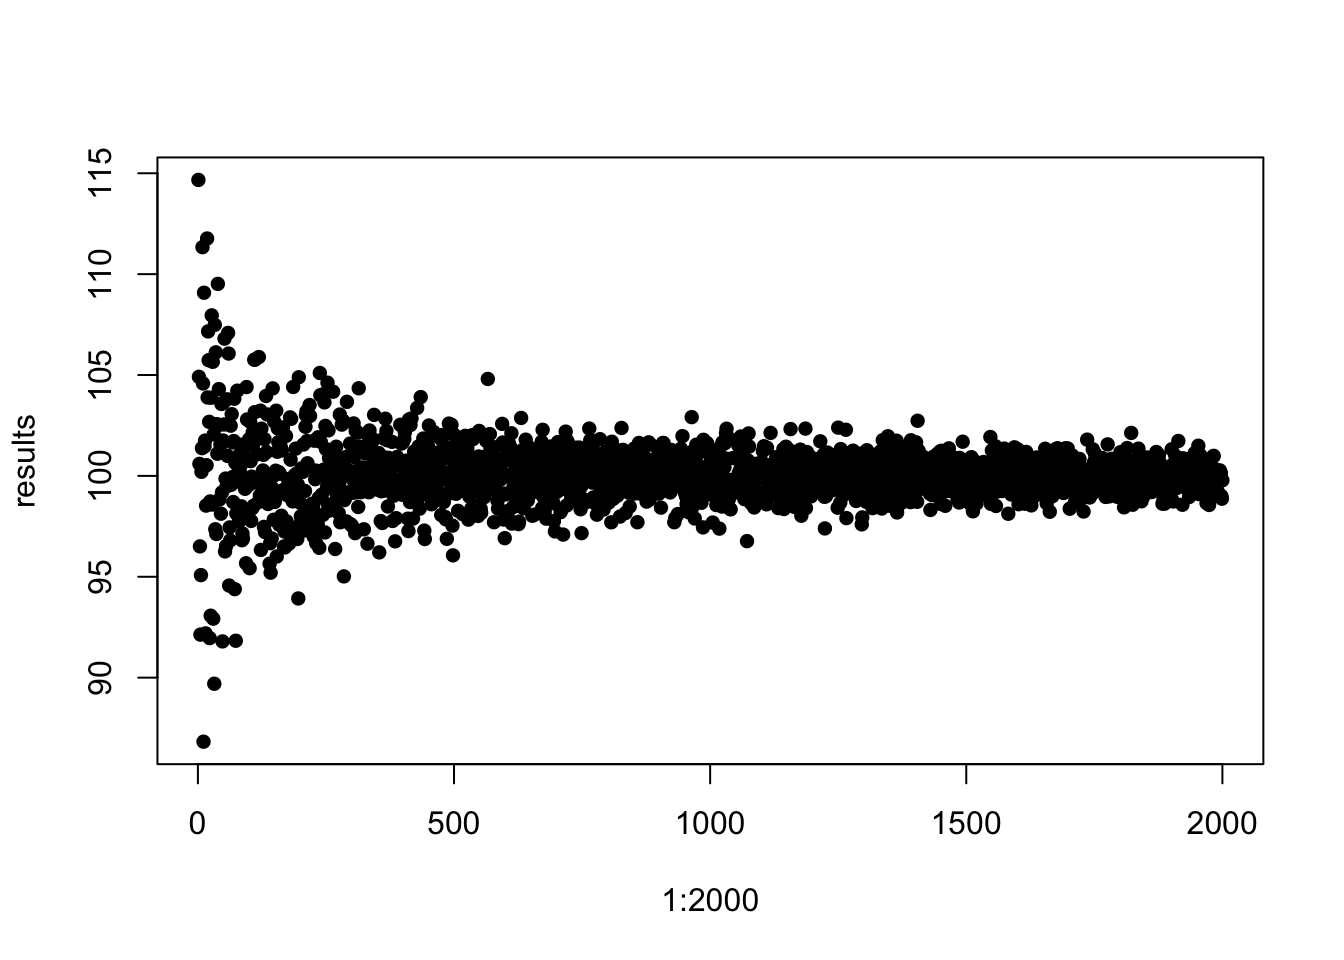
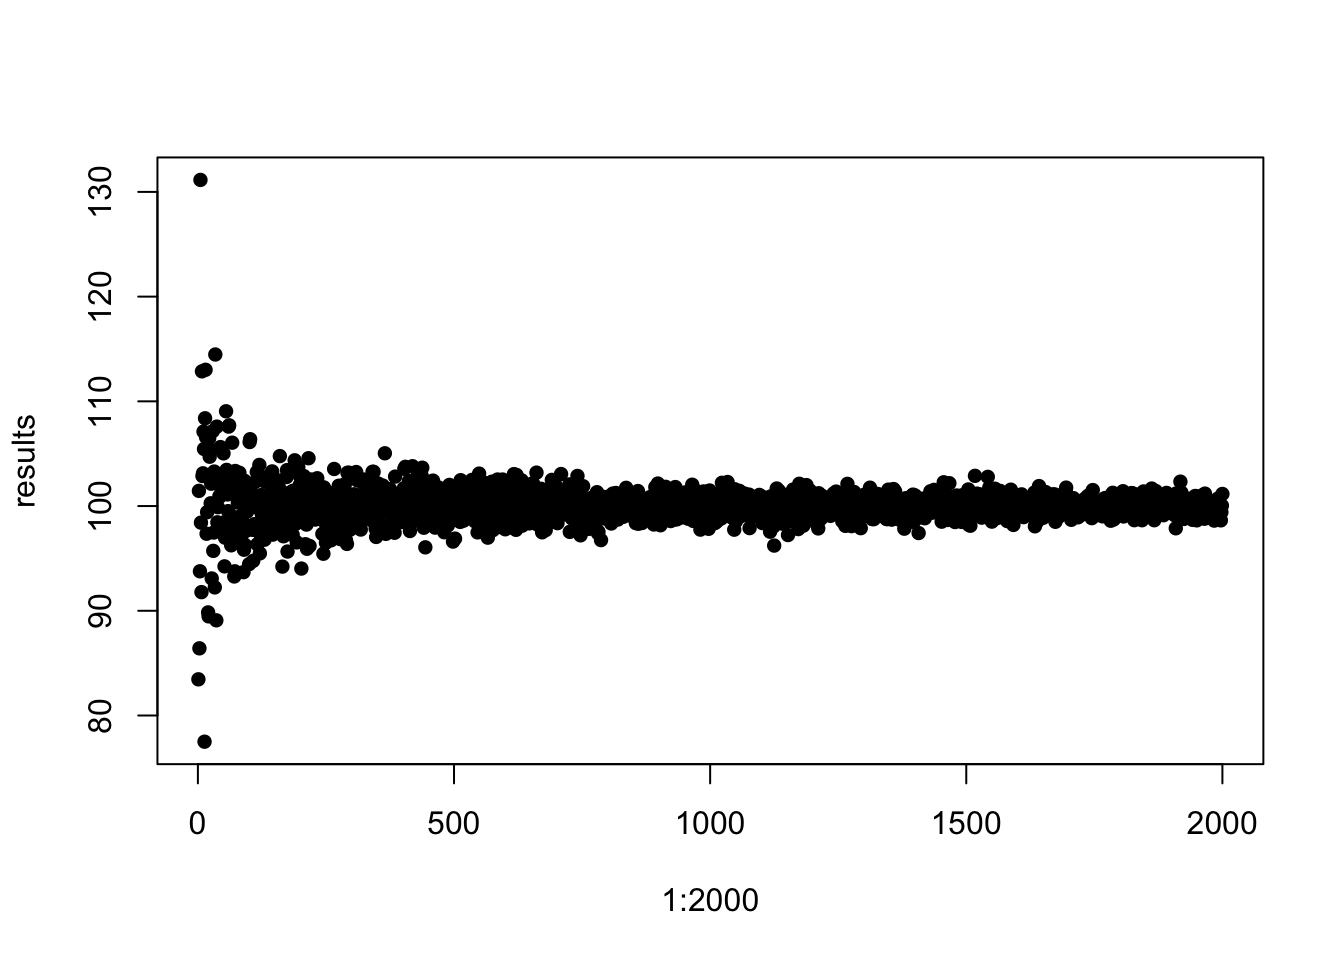
update

diff --git a/automation.html b/automation.html
@@ -96,7 +96,7 @@ if (window.hljs && document.readyState && document.readyState === "complete") {
 for(i in vector){
   #do something with i
 }</code></pre>
-<p>Here is a (slightly) more realistic example.</p>
+<p>Here is a (slightly) more complicated example.</p>
 <pre class="r"><code>myVector &lt;- 1:10
 for(counter in myVector){
   result &lt;- paste(&quot;counter ^ 2 = &quot;, counter^2)
@@ -114,18 +114,44 @@ for(counter in myVector){
 ## [1] &quot;counter ^ 2 =  100&quot;</code></pre>
 <p>We loop over a vector <code>1:100</code>, and sequentially assign its values to a temporary variable we are calling <code>counter</code>. (Note: we can call this variable whatever we want.) Then R does what is within the curly braces <code>{}</code> for each iteration of the loop. In this case, it pastes together some text with the square of the value of <code>counter</code> and prints this all to the console.</p>
 <p><span class="mega-octicon octicon-question"></span> After running the above code, what is the value of <code>counter</code>? What is the value of <code>myVector</code>? Has this value changed?</p>
-<p>Often, we want to do some calculations, and save the results outside of the <code>for</code> loop. To do this, we can create a results vector in advance that is the same length as the vector we are looping over, then we can save the results each time. For instance: we can make a results vector to store the values in the above example, rather than printing them.</p>
-<pre class="r"><code>myVector &lt;- 1:100
+<div id="getting-stuff-out-of-a-loop" class="section level3">
+<h3>getting stuff out of a loop</h3>
+<p>Often, we want to do some calculations, and save the results outside of the <code>for</code> loop. To do this, we can create a results vector in advance that is the same length as the vector we are looping over, then we can save the results each time in the appropriate slot.</p>
+<pre class="r"><code>myVector &lt;- runif(100, min = 1, max=10)
 results &lt;- numeric(100)
-for(counter in myVector){
-  results[counter] &lt;- paste(&quot;counter ^ 2 = &quot;, counter^2)
+for(each in 1:length(myVector)){
+  results[each] &lt;- paste(myVector[each], &quot;^ 2 = &quot;, myVector[each]^2)
 }
 
 ##now get some of the stored results
 results[50]</code></pre>
-<pre><code>## [1] &quot;counter ^ 2 =  2500&quot;</code></pre>
+<pre><code>## [1] &quot;1.0440802318044 ^ 2 =  1.09010353044473&quot;</code></pre>
 <pre class="r"><code>results[67]</code></pre>
-<pre><code>## [1] &quot;counter ^ 2 =  4489&quot;</code></pre>
+<pre><code>## [1] &quot;1.23186396062374 ^ 2 =  1.51748881748361&quot;</code></pre>
+</div>
+<div id="if-statements" class="section level3">
+<h3><code>if</code> statements</h3>
+<p>Often during a loop, you may want to do a test and do something different based on the results of the test. Imagine a vector of germination outcomes from a seed experiment. 0 indicates the seed did not germinate due to insect predatoin, 1 indicates that it did not germinate but no insect predation occurrend, 2 indicates that the seed germinated. We can use the <code>if(condition)</code> function to evaluate the outcome and provide context specific output.</p>
+<pre class="r"><code>outcomes &lt;- c(0,1,0,2,0,1,0,2,0,1,0,1,0,0)
+for(trial in outcomes){
+  if(trial == 2) print(&quot;Welcome to the world, plantling!&quot;)
+  else print(&quot;RIP&quot;)
+}</code></pre>
+<pre><code>## [1] &quot;RIP&quot;
+## [1] &quot;RIP&quot;
+## [1] &quot;RIP&quot;
+## [1] &quot;Welcome to the world, plantling!&quot;
+## [1] &quot;RIP&quot;
+## [1] &quot;RIP&quot;
+## [1] &quot;RIP&quot;
+## [1] &quot;Welcome to the world, plantling!&quot;
+## [1] &quot;RIP&quot;
+## [1] &quot;RIP&quot;
+## [1] &quot;RIP&quot;
+## [1] &quot;RIP&quot;
+## [1] &quot;RIP&quot;
+## [1] &quot;RIP&quot;</code></pre>
+</div>
 <div id="challenge" class="section level3">
 <h3><span class="mega-octicon octicon-puzzle"></span> Challenge</h3>
 <p>Write a <code>for</code> loop to examine the law of large numbers to illustrate how, as sample size increases, estimates of the mean of a population converge on the true value. Do this in the following steps:</p>
@@ -133,7 +159,7 @@ results[50]</code></pre>
 <li>create a numeric results vector of length 2000</li>
 <li>loop over each integer <code>i</code> from 1 to 2000</li>
 <li>at each iteration use the <code>rnorm()</code> function to simulate a sample of size <code>i</code> from a population with a mean of 100 and standard deviation of 30.</li>
-<li>be sure to save these results to the appropriate place in the results vector</li>
+<li>calculate the mean of this sample, and be sure to save these results to the appropriate place in the results vector</li>
 <li>finally, make a plot of the results with the integers 1 to 2000 on the x axis, and the corresponding value from the results vector on the y axis</li>
 </ul>
 </div>
@@ -142,27 +168,28 @@ results[50]</code></pre>
 <h2>lapply + writing your own functions</h2>
 <p>The function <code>lapply()</code> is like a <code>for</code> loop, but is optimized and explicitly functional. <code>lapply()</code> usually takes two arguments <code>X</code> which is a list or a vector to loop over, and <code>FUN</code> which is a function to apply to each element of <code>X</code>. Thus, <code>FUN</code> must be able to accept any element of <code>X</code> as an argument. The clearest way is to write your own function.</p>
 <p>The “l” in <code>lapply()</code> stands for “list”, because that’s what you get as a result. This is useful, because you allows you to store complex stuff from each iteration. For example:</p>
-<pre class="r"><code># note, we must accept argument
+<pre class="r"><code># note, we must accept an argument
 # even if we don&#39;t do anything with this argument.
-summarizeRandom &lt;- function(x){
-  sample &lt;- rnorm(1000)
+summarizeRandom &lt;- function(n){
+  sample &lt;- rnorm(n)
   mySummary &lt;- summary(sample)
   return(mySummary)
 }
 
-myResults &lt;- lapply(1:100, FUN=summarizeRandom)
+sampleSizes &lt;- 100:200
+myResults &lt;- lapply(sampleSizes, FUN=summarizeRandom)
 myResults[1:3]</code></pre>
 <pre><code>## [[1]]
-##     Min.  1st Qu.   Median     Mean  3rd Qu.     Max. 
-## -2.94200 -0.61440  0.05243  0.03047  0.71120  3.36000 
+##    Min. 1st Qu.  Median    Mean 3rd Qu.    Max. 
+## -2.8970 -0.5976 -0.1936 -0.1297  0.5773  3.1650 
 ## 
 ## [[2]]
 ##     Min.  1st Qu.   Median     Mean  3rd Qu.     Max. 
-## -3.93200 -0.67380 -0.05363 -0.04592  0.62650  2.67100 
+## -3.14400 -0.74660  0.05087  0.02483  0.75540  3.10800 
 ## 
 ## [[3]]
-##     Min.  1st Qu.   Median     Mean  3rd Qu.     Max. 
-## -3.56900 -0.72490 -0.04914 -0.05478  0.61200  3.21900</code></pre>
+##    Min. 1st Qu.  Median    Mean 3rd Qu.    Max. 
+## -2.5260 -0.7448 -0.0356 -0.1065  0.5623  2.0270</code></pre>
 </div>
 <div id="the-dplyr-package" class="section level2">
 <h2>the dplyr package</h2>
@@ -177,6 +204,7 @@ loans &lt;- tbl_df(loans)</code></pre>
 </div>
 <div id="the-basic-dplyr-verbs" class="section level3">
 <h3>The basic dplyr verbs</h3>
+<p>There are a few basic functions in <code>dplyr</code>, which are designed to help you think about the most common data manipulation tasks that you will need to do.</p>
 </div>
 <div id="filter" class="section level3">
 <h3><code>filter()</code></h3>
@@ -308,19 +336,18 @@ loans &lt;- tbl_df(loans)</code></pre>
 <pre class="r"><code>mutate(loans, Total_Loans = SubsidizedDL + UNSubsidizedDL)</code></pre>
 <pre><code>## Source: local data frame [210 x 6]
 ## 
-##                                    School State      School_Type SubsidizedDL UNSubsidizedDL
-## 1                     AMERICAN UNIVERSITY    DC PrivateNonprofit      6213538        4517728
-## 2          CATHOLIC UNIVERSITY OF AMERICA    DC PrivateNonprofit      3619502        3520966
-## 3  UNIVERSITY OF THE DISTRICT OF COLUMBIA    DC           Public      3850272        4248284
-## 4                    GALLAUDET UNIVERSITY    DC PrivateNonprofit       679602         561785
-## 5            GEORGE WASHINGTON UNIVERSITY    DC PrivateNonprofit      7463145        5913027
-## 6                   GEORGETOWN UNIVERSITY    DC PrivateNonprofit      3824260        1318290
-## 7                       HOWARD UNIVERSITY    DC PrivateNonprofit      9414766        9021712
-## 8                      STRAYER UNIVERSITY    DC      Proprietary     22490396       34840102
-## 9                         TRINITY COLLEGE    DC PrivateNonprofit      2522961        2850888
-## 10            WESLEY THEOLOGICAL SEMINARY    DC PrivateNonprofit           NA          22250
-## ..                                    ...   ...              ...          ...            ...
-## Variables not shown: Total_Loans (int)</code></pre>
+##                                    School State      School_Type SubsidizedDL UNSubsidizedDL Total_Loans
+## 1                     AMERICAN UNIVERSITY    DC PrivateNonprofit      6213538        4517728    10731266
+## 2          CATHOLIC UNIVERSITY OF AMERICA    DC PrivateNonprofit      3619502        3520966     7140468
+## 3  UNIVERSITY OF THE DISTRICT OF COLUMBIA    DC           Public      3850272        4248284     8098556
+## 4                    GALLAUDET UNIVERSITY    DC PrivateNonprofit       679602         561785     1241387
+## 5            GEORGE WASHINGTON UNIVERSITY    DC PrivateNonprofit      7463145        5913027    13376172
+## 6                   GEORGETOWN UNIVERSITY    DC PrivateNonprofit      3824260        1318290     5142550
+## 7                       HOWARD UNIVERSITY    DC PrivateNonprofit      9414766        9021712    18436478
+## 8                      STRAYER UNIVERSITY    DC      Proprietary     22490396       34840102    57330498
+## 9                         TRINITY COLLEGE    DC PrivateNonprofit      2522961        2850888     5373849
+## 10            WESLEY THEOLOGICAL SEMINARY    DC PrivateNonprofit           NA          22250          NA
+## ..                                    ...   ...              ...          ...            ...         ...</code></pre>
 </div>
 <div id="summarise" class="section level3">
 <h3><code>summarise()</code></h3>
@@ -382,12 +409,12 @@ library(ggplot2)
 #chained syntax
 rnorm(1000, mean=20, sd=1.4) %&gt;% log %&gt;% qplot</code></pre>
 <pre><code>## stat_bin: binwidth defaulted to range/30. Use &#39;binwidth = x&#39; to adjust this.</code></pre>
-<p><img src="automation_files/figure-html/unnamed-chunk-17-1.png" title="" alt="" width="672" /></p>
+<p><img src="automation_files/figure-html/unnamed-chunk-18-1.png" title="" alt="" width="672" /></p>
 <pre class="r"><code>#compare with nested function calls 
 
 qplot(log(rnorm(1000, mean=20, sd=1.4)))</code></pre>
 <pre><code>## stat_bin: binwidth defaulted to range/30. Use &#39;binwidth = x&#39; to adjust this.</code></pre>
-<p><img src="automation_files/figure-html/unnamed-chunk-17-2.png" title="" alt="" width="672" /></p>
+<p><img src="automation_files/figure-html/unnamed-chunk-18-2.png" title="" alt="" width="672" /></p>
 </div>
 <div id="challenge-2" class="section level3">
 <h3><span class="mega-octicon octicon-puzzle"></span> Challenge</h3>
